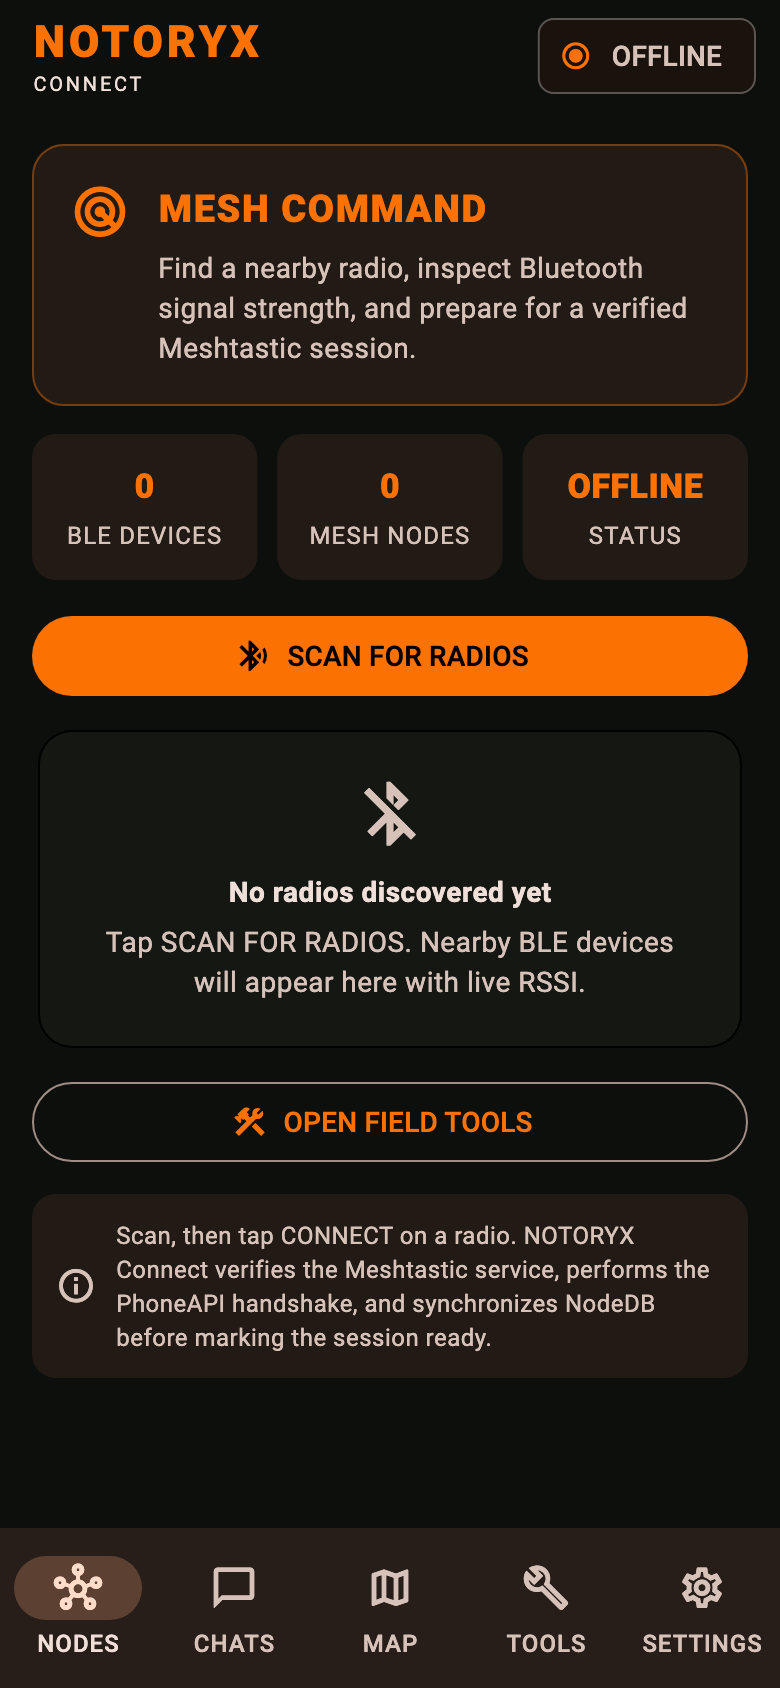
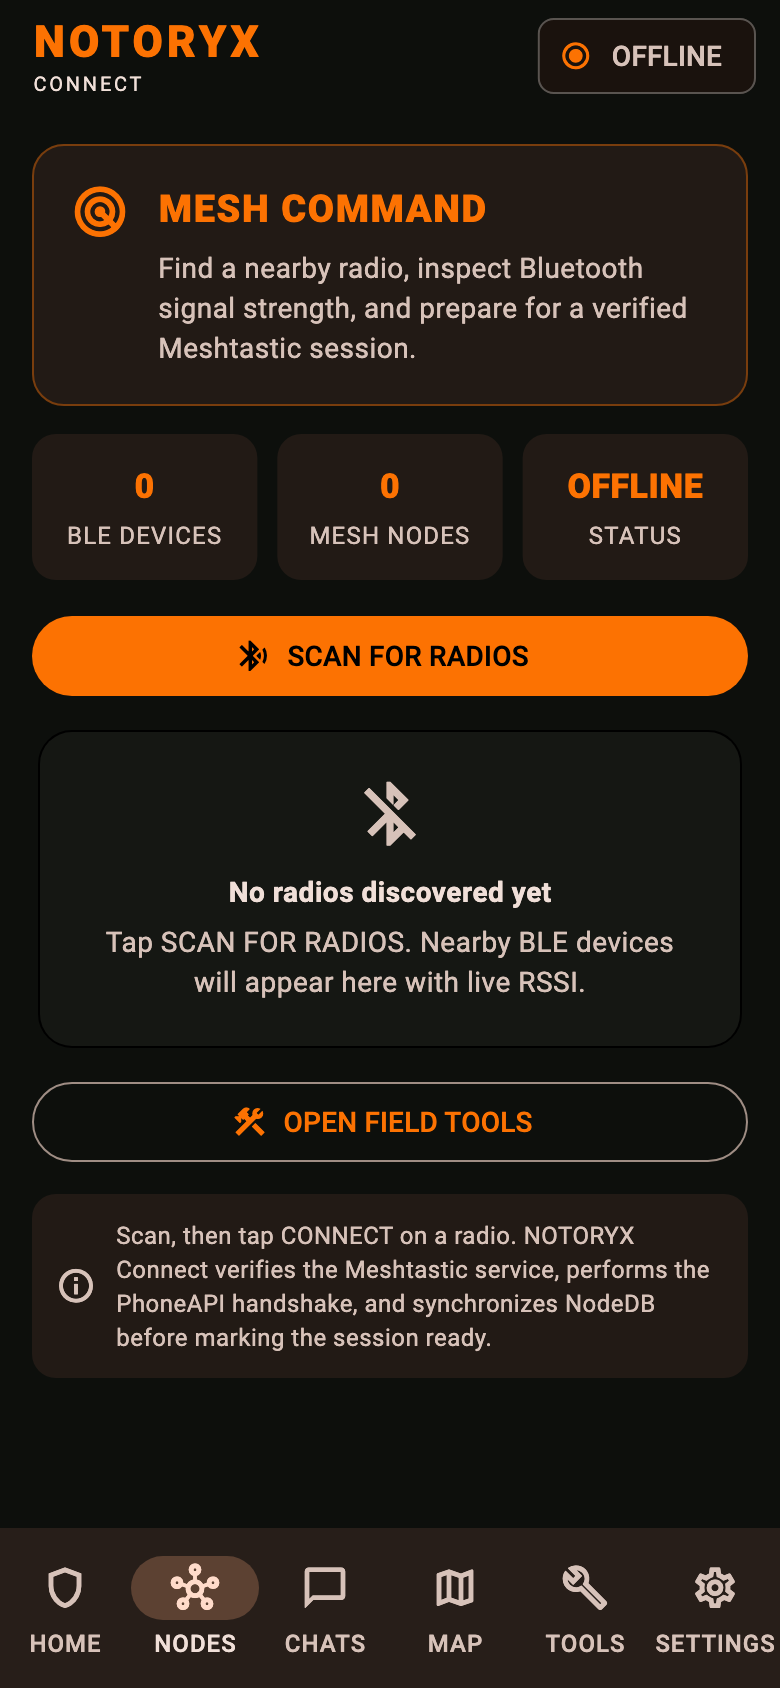
README: beta.3 features and new screenshots

Changed region(s): [[0.0, 0.9242, 0.6154, 0.9858], [0.8308, 0.9242, 1.0, 0.9858], [0.6462, 0.9242, 0.8, 0.9858]]

diff --git a/README.md b/README.md
@@ -9,6 +9,12 @@
 This repository hosts NOTORYX Connect builds. Get the latest from **[Releases](../../releases)**. The source code is at [TheLogsAreScreaming/notoryx-connect](https://github.com/TheLogsAreScreaming/notoryx-connect) (GPL-3.0).
 
 <p align="center">
+  <img src="images/home.png" width="190" alt="Home: field console, trip plan, check-in and hold for SOS">
+  <img src="images/trip.png" width="190" alt="Plan your trip: contacts, overdue alert and check-in reminder">
+  <img src="images/beacons.png" width="190" alt="Mesh beacons heard, and sending one by hand">
+  <img src="images/discovery.png" width="190" alt="Local mesh discovery planner">
+</p>
+<p align="center">
   <img src="images/nodes.png" width="190" alt="Nodes: scan for radios and connect">
   <img src="images/chats.png" width="190" alt="Chats: channel and direct messages with quick replies">
   <img src="images/tools.png" width="190" alt="Tools: battery runtime, RSSI guide and deployment checklist">
@@ -20,6 +26,7 @@ This repository hosts NOTORYX Connect builds. Get the latest from **[Releases](.
 Most mesh apps are built for poking at radios at your desk. NOTORYX Connect is built for when you're out there and the cell bars are gone.
 
 - **It's built for the field.** A dark, high-contrast interface with big targets, a deployment checklist, battery runtime math, an incident log and check-in templates. Everything you reach for at the trailhead is one tap from the bottom bar.
+- **It watches your back.** Plan a trip with up to 6 contacts, check in with one tap, and **hold for SOS** to repeat a call for help until someone answers. The team map shows where each contact was last heard, how long ago, and the trail they took.
 - **It doesn't pretend.** Every radio setting you save is read back from the radio before the app calls it done. If the radio didn't take the change, you'll know. Delivery states come from real routing acknowledgments, not a hopeful checkmark.
 - **Your messages don't vanish.** Type with no radio connected and they queue on the phone, then go out when the link comes back. History, queues and nodes are kept separately for every radio you own.
 - **It stays connected.** A background service keeps the Bluetooth link up with the screen off, and it reconnects on its own when you walk back into range or flip Bluetooth back on.
@@ -28,6 +35,12 @@ Most mesh apps are built for poking at radios at your desk. NOTORYX Connect is b
 - **It's free and open source.** GPL-3.0, independently built, with its own identity.
 
 ## Everything it does
+
+### Trip safety
+- **Home** tab with a field console: radio status, node count and battery.
+- **Plan your trip:** up to 6 trip contacts, an overdue alert (30 min to 8 h) and a check-in reminder.
+- **Check in** with one tap: I'm OK, At camp, Delayed or Heading back. Each goes to every trip contact as a direct message with the time, your position and battery. You see who it reached and can resend to the rest.
+- **Hold for SOS** for 2 seconds (TalkBack users get a confirmation instead). It goes to your trip contacts and optionally a channel, repeats every 5 minutes up to 12 times, stops when a contact answers, and **I'm safe** sends an all-clear.
 
 ### Connecting
 - Scan for nearby radios with live Bluetooth signal strength, then connect in one tap.
@@ -45,6 +58,10 @@ Most mesh apps are built for poking at radios at your desk. NOTORYX Connect is b
 - Message timeline and received-signal (SNR) history for the session.
 - Chat history (newest 500 per radio), queues and nodes kept separately for each radio.
 - Optional message notifications.
+- Emoji reactions (long-press a message), a draft saved for each conversation, and a **via MQTT** label on messages that came over the internet.
+- **Ignore** or **mute** a node, and hide messages containing words you choose. An SOS reply from a trip contact is never missed, even if you ignored them.
+- Optional automatic deletion of old channel messages (direct messages are kept) and reading new messages aloud.
+- App-icon shortcuts: Check in / SOS, Chats, Nodes and Map.
 
 ### Nodes and NodeDex
 - Live mesh node list with mesh health and signal for the session.
@@ -55,6 +72,10 @@ Most mesh apps are built for poking at radios at your desk. NOTORYX Connect is b
 
 ### Maps and location
 - Map of node positions and waypoints from the mesh. Create your own waypoints too.
+- **Team view:** each trip contact's status (fresh, stale or lost), distance, direction and battery, with the position's age on their pin.
+- **Trails** of where your trip contacts and you have been over the last 24 hours.
+- **Export GPX** of waypoints and trails to open in other mapping apps.
+- **Units:** miles and feet, or kilometers and meters, set from your region by default.
 - OpenStreetMap areas you've viewed are cached offline for a year.
 - Opt-in phone location sharing, with optional rounding (about 360 m, 1.5 km or 6 km) before it leaves the phone.
 - Low-power field mode, which lowers GPS accuracy and update rate to save battery.
@@ -68,6 +89,8 @@ Most mesh apps are built for poking at radios at your desk. NOTORYX Connect is b
 - **Coverage history:** record where you were and the signal (SNR and RSSI) you received from each node, then export it as CSV. It keeps up to 2,000 readings for 30 days and stops on its own when you disconnect.
 - **Range test** log with signal and distance for each packet, and gaps that show lost packets.
 - **Store & forward:** replay messages you missed from a router node.
+- **Mesh beacons:** see the beacons your radio hears, review and join a channel a beacon offers, or send a beacon by hand (up to once an hour).
+- **Local mesh discovery** (read-only for now): plan a listen across LoRa presets and see the nodes your radio has already heard.
 
 ### Field alerts (phone notifications only, nothing is sent over the mesh)
 - Low battery on your radio or a favorite, at a threshold you set.
@@ -99,20 +122,24 @@ Most mesh apps are built for poking at radios at your desk. NOTORYX Connect is b
   <img src="images/privacy.png" width="190" alt="Privacy and data: what's stored and what's sent">
   <img src="images/radio_backup.png" width="190" alt="Encrypted radio backup">
   <img src="images/phone_backup.png" width="190" alt="Phone data backup">
-  <img src="images/settings_light.png" width="190" alt="Settings in the light theme">
+  <img src="images/settings.png" width="190" alt="Settings: appearance, units, filters and messages">
 </p>
 
 > NOTORYX Connect is a beta, checked on one radio (a Seeed T1000-E) so far. Don't rely on it as your only way to call for help.
 
 ## Which file do I need?
 
-Download the `…-arm64.apk` from the latest release (ARM64 Android phones). Releases may also include an `.aab` (for the Play Store, not for installing directly), checksums in `SHA256SUMS.txt`, and device test guides.
+Download the `NOTORYX-Connect-<version>-<build>.apk` from the latest release (ARM64 Android phones). Releases also include an `.aab` (for the Play Store, not for installing directly), checksums in `SHA256SUMS.txt`, and signing details in `SIGNATURE.txt`.
+
+Betas are marked as pre-releases, so look through the **[Releases](../../releases)** list rather than only at "Latest".
 
 ## Install on Android
 
 1. On your phone, open the latest release and download the `.apk`.
 2. Open the file. If Android asks, allow installs from your browser or file manager.
 3. Open NOTORYX Connect and allow **Bluetooth**, **location** and **notifications** when asked.
+
+**Updating?** Newer betas install over older ones and keep your data. Don't uninstall first.
 
 **Coming from v0.1.3-beta.1 or earlier?** The app ID is changing from `org.backcountrysignal.bastion` to `com.bastionmesh.connect`, so the next release installs as a separate app. In the old app, make a backup (**Settings → Phone data backup / restore**), install the new app, restore the backup there, then uninstall the old one. You only do this once.
 
